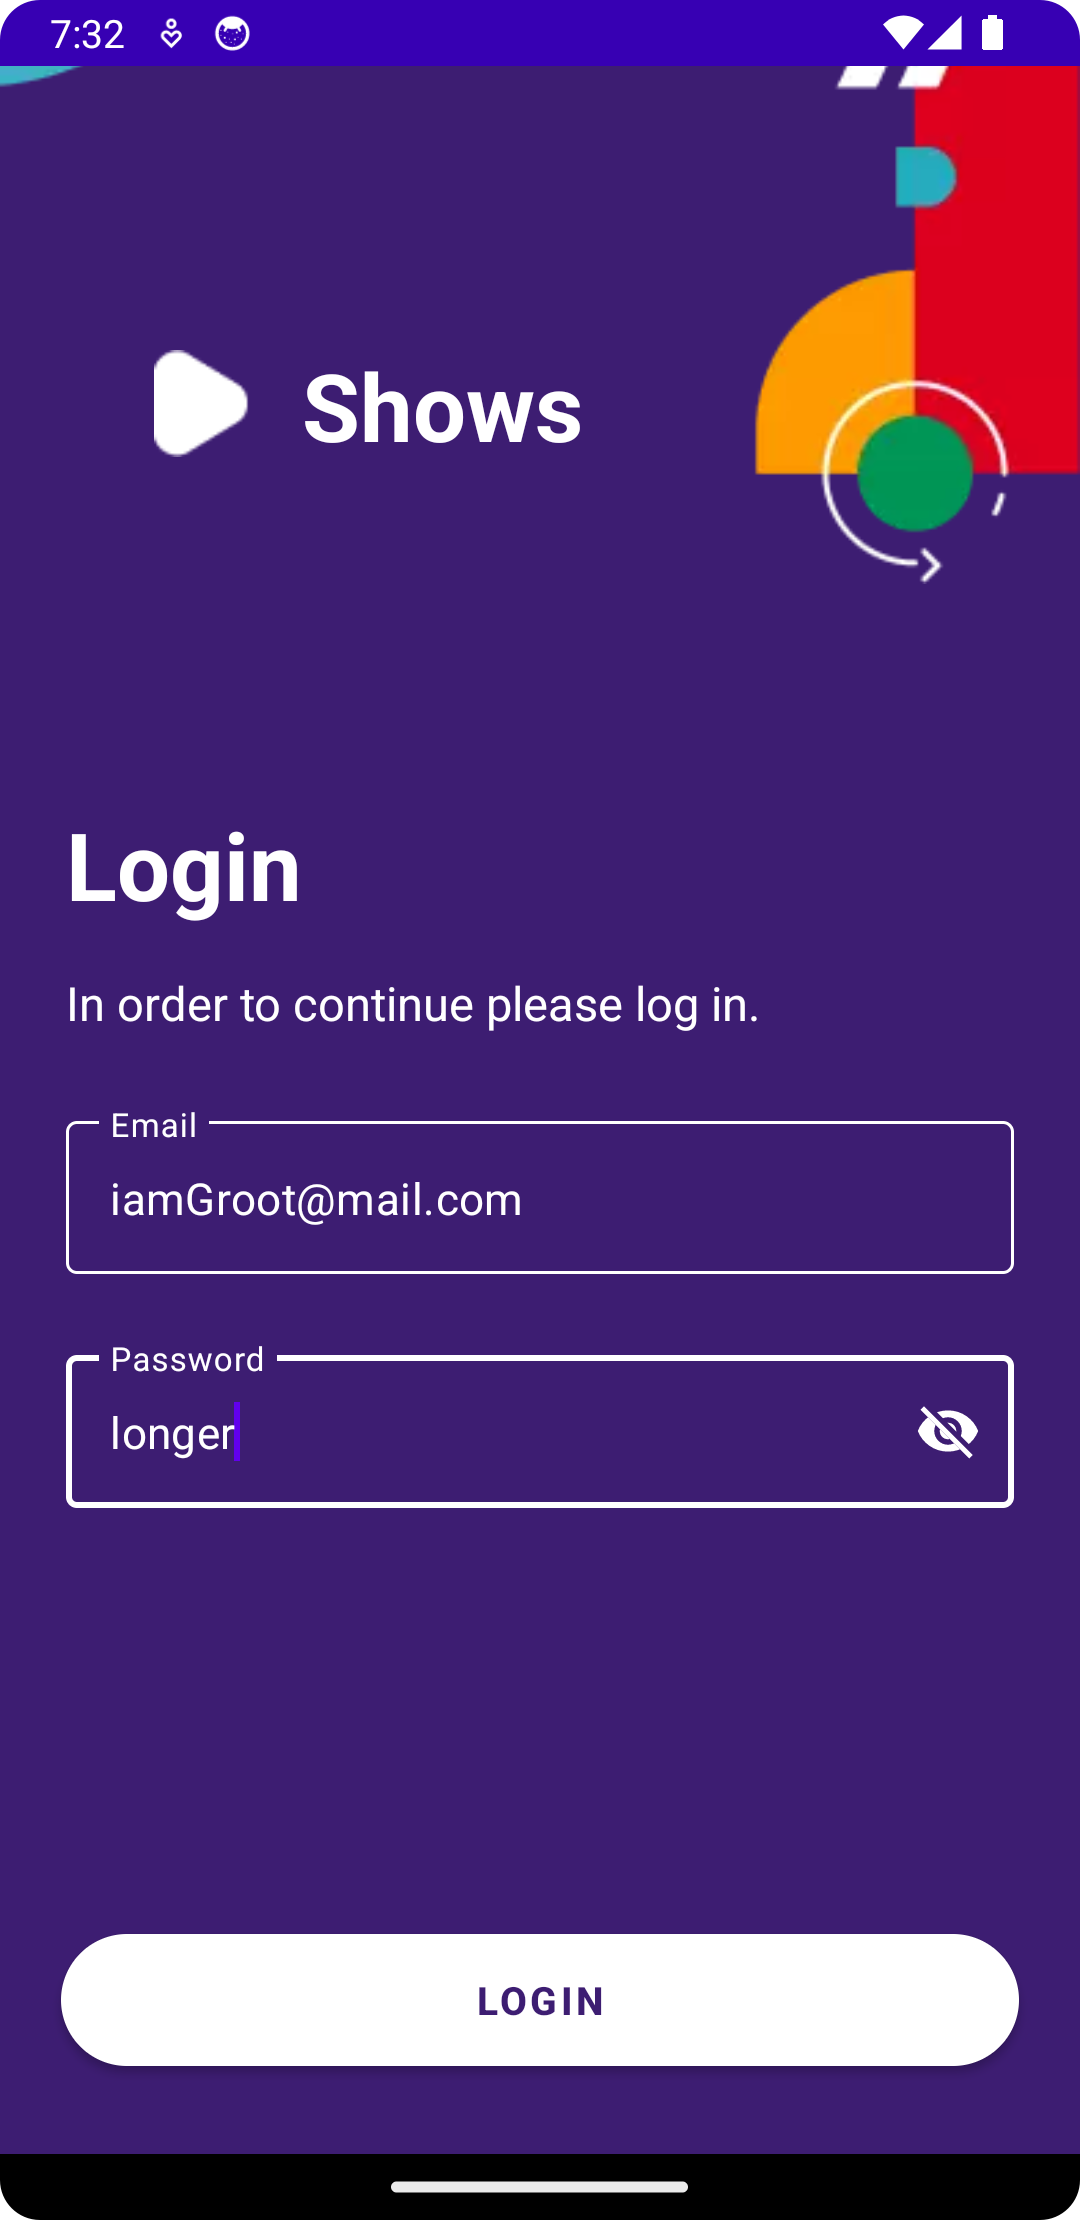
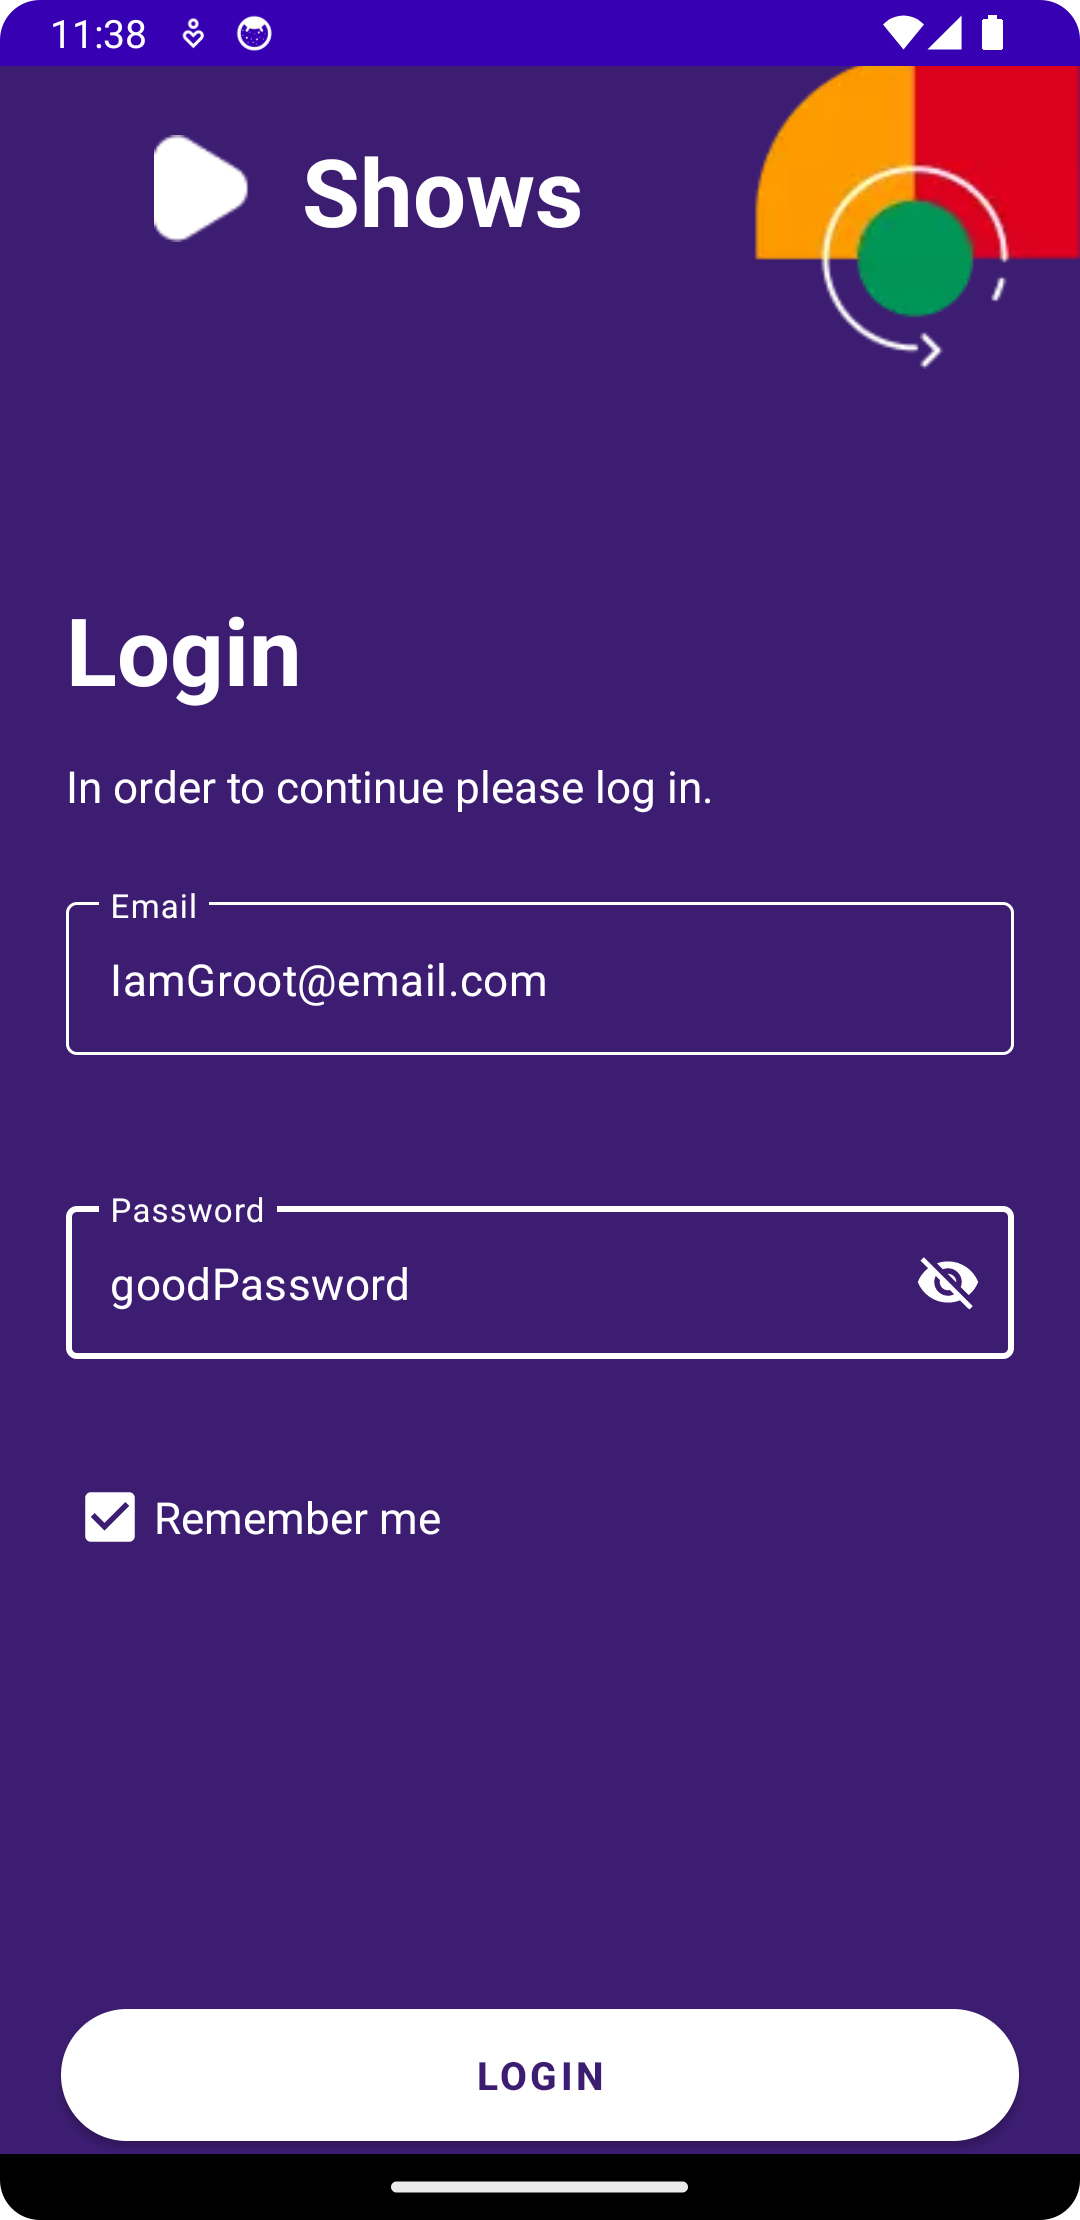
UPDATE README

diff --git a/README.md b/README.md
@@ -9,7 +9,7 @@ the [Infinum Academy android course](https://infinum.academy/courses/android/).
     <div>
         <p>Upon launching the app, the user
             is greeted by the displayed UI
-            containing a login form. The login button is initially disabled and gets updated according to every update of the form
+            containing a login form. The login button is initially disabled and gets updated according to every update of the form. The user has the option to choose whether he wants his login to be remembered or not.
         </p>
         <hr/>
         <br>
@@ -38,6 +38,18 @@ the [Infinum Academy android course](https://infinum.academy/courses/android/).
 </div>
 
 <hr/>
+
+### User profile
+
+<div> 
+    <div >
+        <p>In the right upper corner of the screen the users profile picture is displayed. If the user taps on the profile picture a dialog appears displaying information about the users account. In the dialog the user can log out or change his profile photo. If he wishes to change his profile photo he will be met with an alert dialog prompting him to choose whether he wants to take a new picture or choose one from the gallery.
+        </p>
+        <hr/>
+    </div>
+        <img style="width : 216px; height: 444" src="screenshots/user_profile.png">
+        <img style="width : 216px; height: 444" src="screenshots/change_profile_picture.png">
+</div>
 
 ### Show details
 
